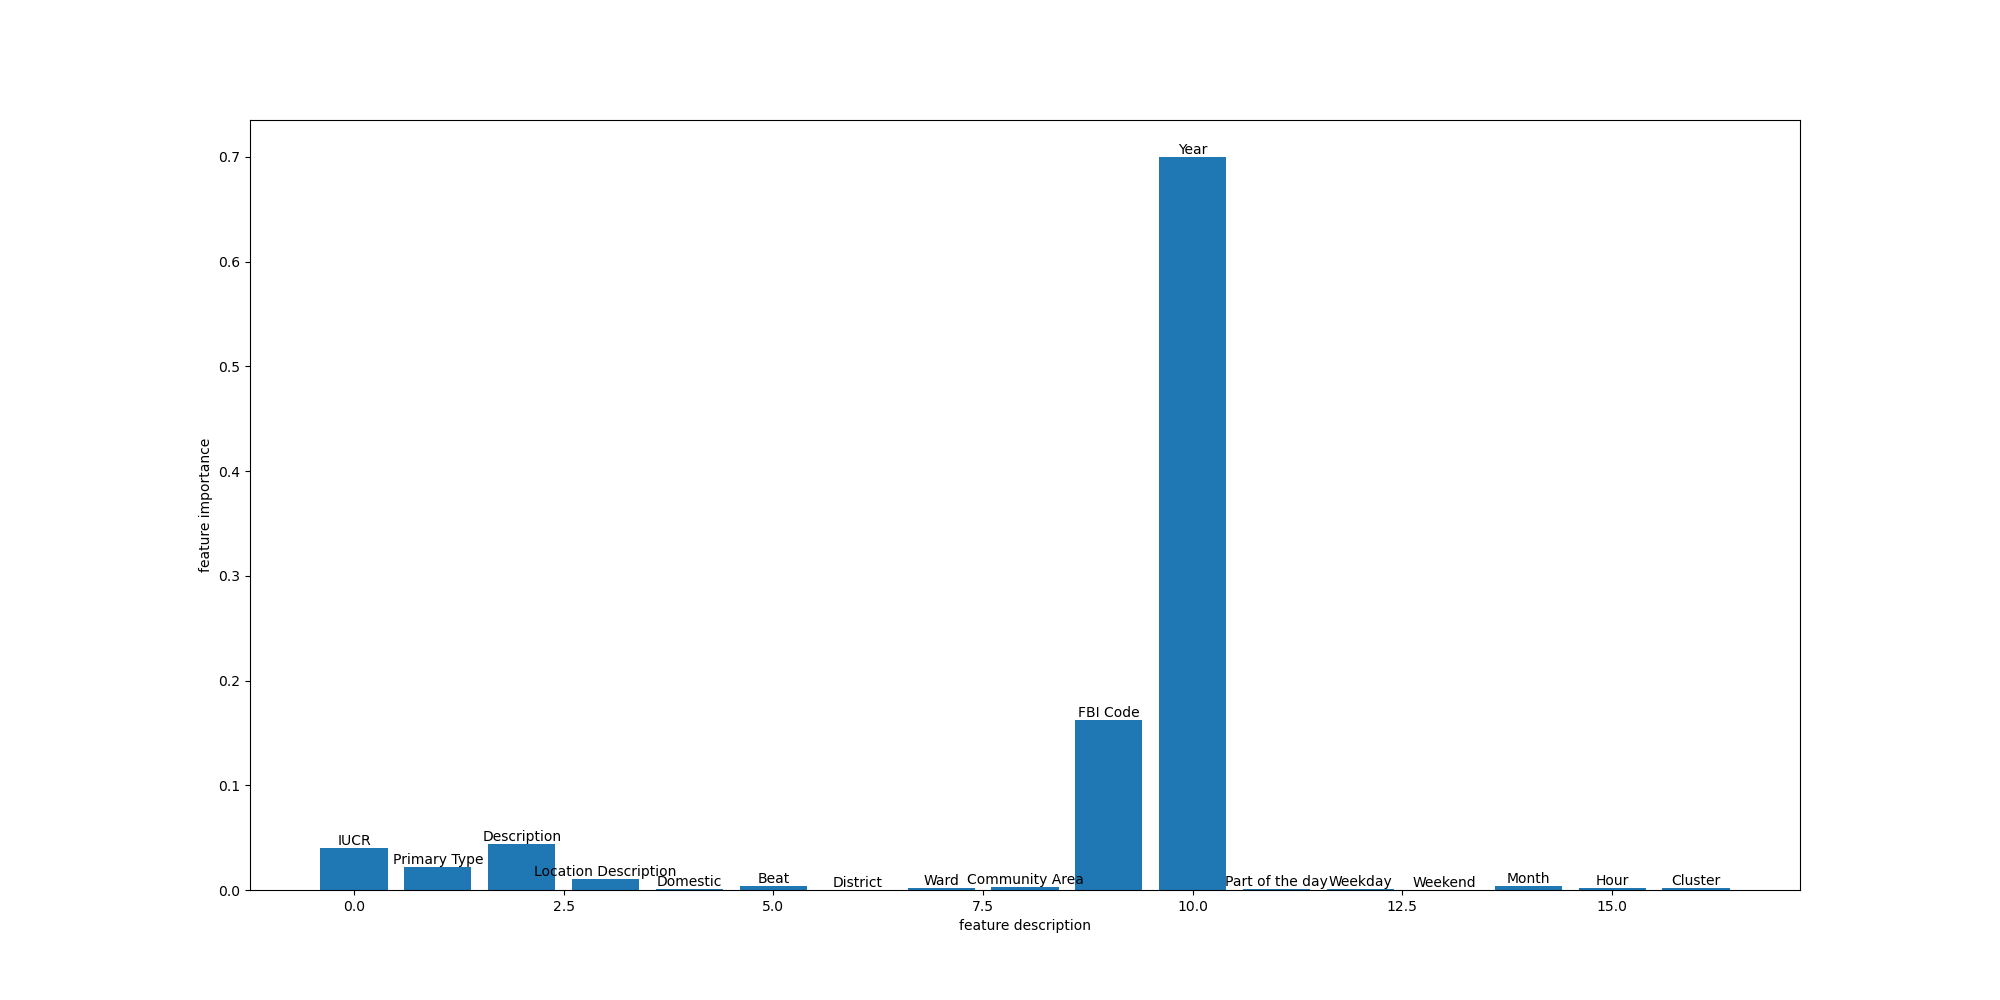
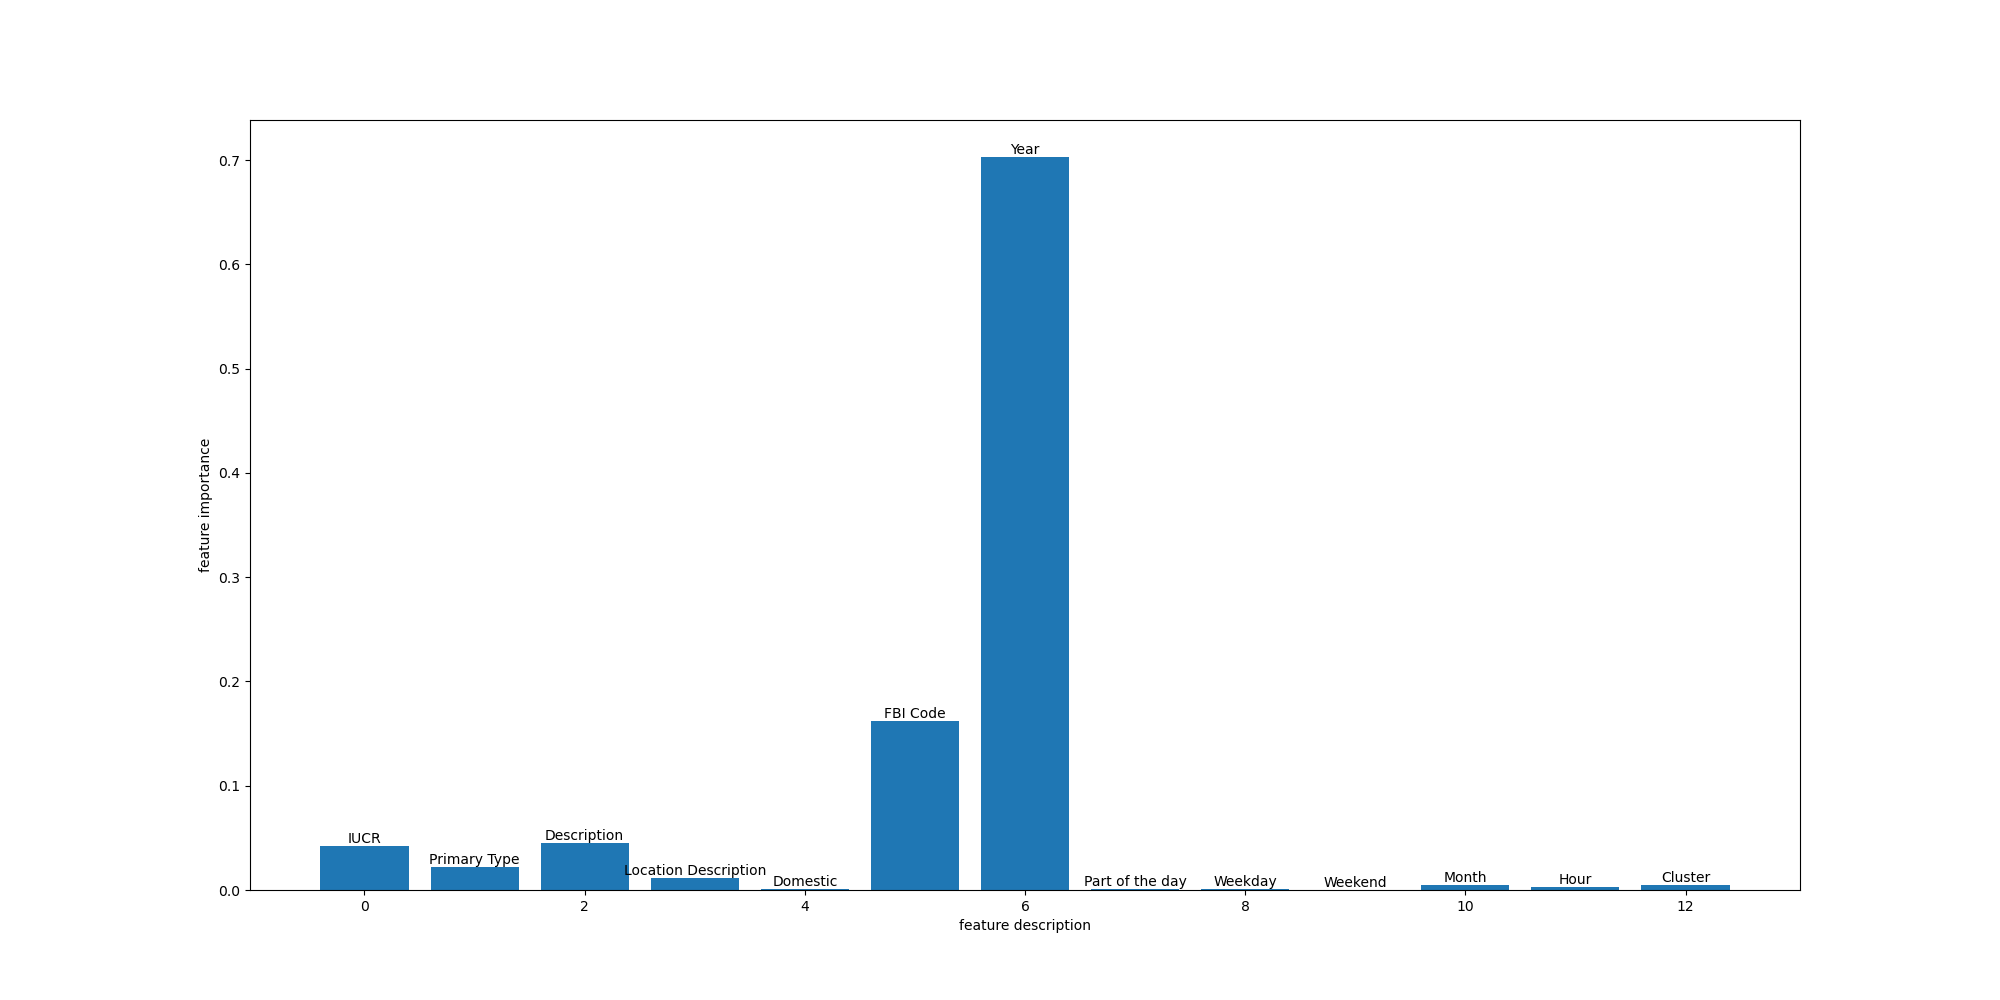
little improvements

Changed region(s): [[0.155, 0.155, 0.868, 0.899]]

diff --git a/train.py b/train.py
@@ -40,7 +40,7 @@ class train:
         return gnb.score(self.X_test, self.Y_test)
 
         
-    def fit_DecisionTree(self, display=False, min_samples_split = 130, min_samples_leaf = 60, max_features = 17, min_impurity_decrease = 0.0):
+    def fit_DecisionTree(self, display=False, min_samples_split = 130, min_samples_leaf = 60, max_features = None, min_impurity_decrease = 0.0):
         clf = tree.DecisionTreeClassifier(min_samples_split = min_samples_split, min_samples_leaf = min_samples_leaf, max_features = max_features, min_impurity_decrease = min_impurity_decrease)
         clf = clf.fit(self.X_train, self.Y_train)
         if(display):
@@ -56,15 +56,15 @@ class train:
     
     def DecisionTree_feature_importances(self, feature_description):
         fig, ax = plt.subplots(1, 1, figsize=(20,10))
-        #ax.bar(self.clf.feature_importances_, 17, density=True)
-        b = ax.bar(range(17), self.clf.feature_importances_)
+        n = feature_description.size
+        b = ax.bar(range(n), self.clf.feature_importances_)
         ax.bar_label(b, labels=feature_description)
         ax.set_xlabel("feature description")
         ax.set_ylabel("feature importance")
         plt.savefig("feature_importance")
 
 
-    def fit_RandomForestClassifier(self, display=False, min_samples_split = 130, min_samples_leaf = 60, max_features = 17, min_impurity_decrease = 0.0):
+    def fit_RandomForestClassifier(self, display=False, min_samples_split = 130, min_samples_leaf = 60, max_features = None, min_impurity_decrease = 0.0):
         rfc = RandomForestClassifier(n_jobs = 4, n_estimators = 100, min_samples_split = min_samples_split, min_samples_leaf = min_samples_leaf, max_features = max_features, min_impurity_decrease = min_impurity_decrease)
         rfc  = rfc.fit(self.X_train, self.Y_train)
         if(display):

diff --git a/main.py b/main.py
@@ -150,7 +150,7 @@ train.traintestsplit(0.3)
 #bestParamDecisionTree(train, X, Y)
 #comparaison_features(train, X, Y)
 #bestNumberOfClusters(prepro, train)
-bestNumberData(train)
+#bestNumberData(train)
 
 #train.traintestsplit(0.3)
 display = True
@@ -162,15 +162,15 @@ X, Y = prepro.XYsplit(data_encodée)
 train.load_data(X,Y)
 train.traintestsplit(0.3)
 train.fit_DecisionTree(display)
-#train.DecisionTree_feature_importances(prepro.features_description)
+train.DecisionTree_feature_importances(prepro.features_description)
 
 print("\n----------Début de la visualisation----------\n")
 
-clf = train.model_DecisionTree()
-y_pred_Decision_Tree, Y_test = train.predict_DecisionTree()
-vizu = vizualisation.vizualisation(prepro)
-vizu.matrice_confusion(y_pred_Decision_Tree, Y_test)
-vizu.DecisionTree_plot(clf)
+#clf = train.model_DecisionTree()
+#y_pred_Decision_Tree, Y_test = train.predict_DecisionTree()
+#vizu = vizualisation.vizualisation(prepro)
+#vizu.matrice_confusion(y_pred_Decision_Tree, Y_test)
+#vizu.DecisionTree_plot(clf)
 
 print("\n----------Début du training_RandomForestClassifier----------\n")
 train.fit_RandomForestClassifier(display)
